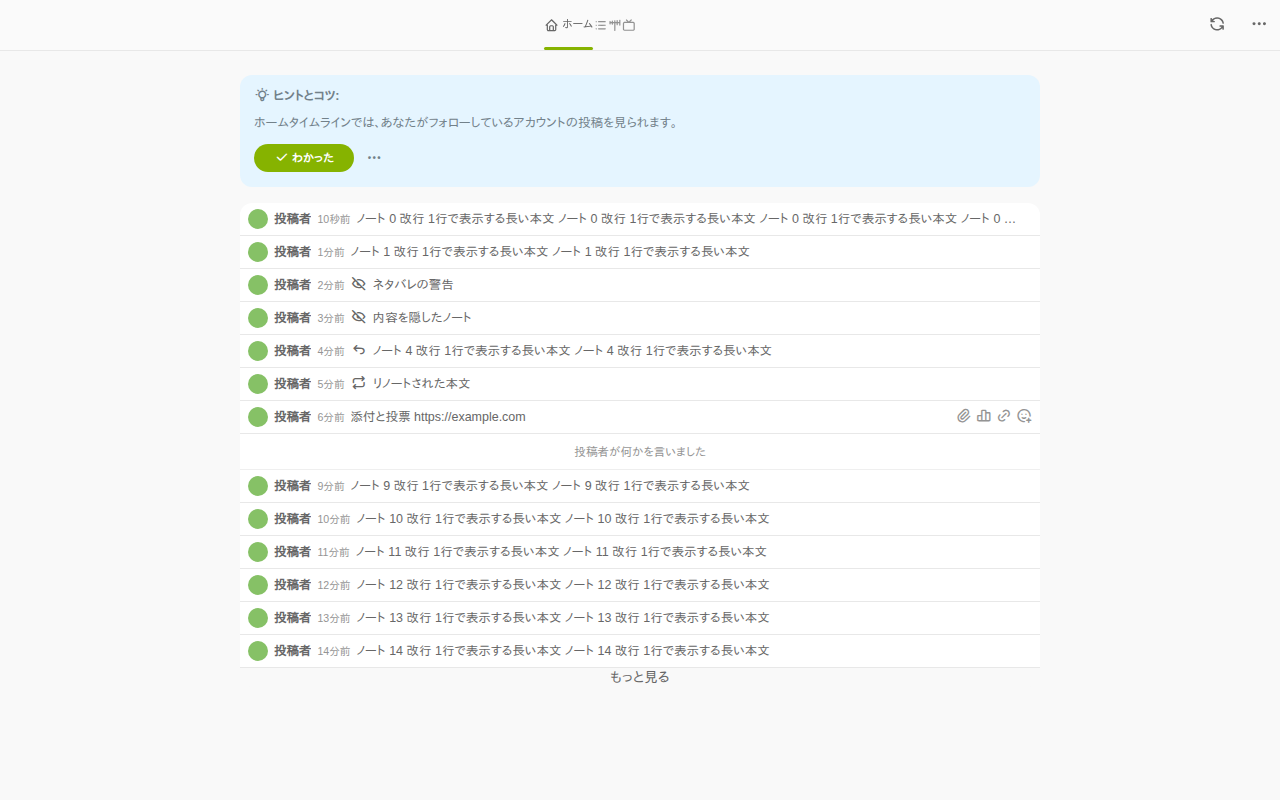
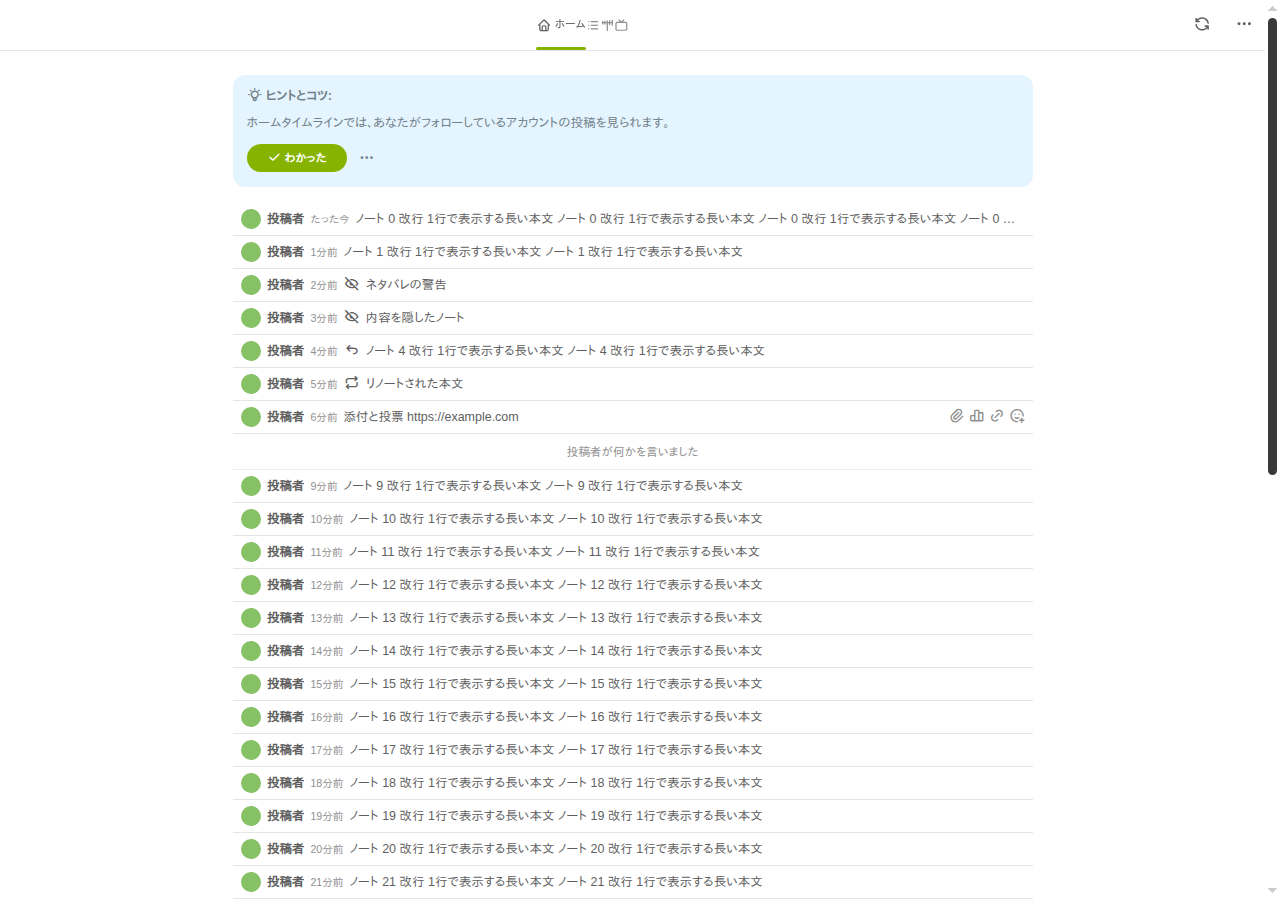
feat(frontend): 1行タイムラインの設定とスクロールバーを追加

diff --git a/packages/frontend/src/pages/settings/preferences.vue b/packages/frontend/src/pages/settings/preferences.vue
@@ -150,6 +150,14 @@ SPDX-License-Identifier: AGPL-3.0-only
 
 					<div class="_gaps_m">
 						<div class="_gaps_s">
+							<SearchMarker :keywords="['timeline', 'compact', 'single', 'line']">
+								<MkPreferenceContainer k="compactTimeline">
+									<MkSwitch v-model="compactTimeline">
+										<template #label><SearchLabel>{{ i18n.ts._compactTimeline.enable }}</SearchLabel></template>
+									</MkSwitch>
+								</MkPreferenceContainer>
+							</SearchMarker>
+
 							<SearchMarker :keywords="['post', 'form', 'timeline']">
 								<MkPreferenceContainer k="showFixedPostForm">
 									<MkSwitch v-model="showFixedPostForm">
@@ -980,6 +988,7 @@ const overridedDeviceKind = prefer.model('overridedDeviceKind');
 const pollingInterval = prefer.model('pollingInterval');
 const showTitlebar = prefer.model('showTitlebar');
 const keepCw = prefer.model('keepCw');
+const compactTimeline = prefer.model('compactTimeline');
 const serverDisconnectedBehavior = prefer.model('serverDisconnectedBehavior');
 const hemisphere = prefer.model('hemisphere');
 const showVisibilityColor = prefer.model('showVisibilityColor');

diff --git a/packages/frontend/src/pages/timeline.vue b/packages/frontend/src/pages/timeline.vue
@@ -4,7 +4,7 @@ SPDX-License-Identifier: AGPL-3.0-only
 -->
 
 <template>
-<PageWithHeader v-model:tab="src" :actions="headerActions" :tabs="$i ? headerTabs : headerTabsWhenNotLogin" :swipable="true" :displayMyAvatar="true" :canOmitTitle="true">
+<PageWithHeader v-model:tab="src" :class="{ [$style.compact]: compactTimeline }" :actions="headerActions" :tabs="$i ? headerTabs : headerTabsWhenNotLogin" :swipable="true" :displayMyAvatar="true" :canOmitTitle="true">
 	<div class="_spacer" style="--MI_SPACER-w: 800px;">
 		<MkTip v-if="isBasicTimeline(src)" :k="`tl.${src}`" style="margin-bottom: var(--MI-margin);">
 			{{ i18n.ts._timelineDescription[src] }}
@@ -364,6 +364,12 @@ definePage(() => ({
 </script>
 
 <style lang="scss" module>
+.compact {
+	scrollbar-width: auto;
+	scrollbar-gutter: stable;
+	scrollbar-color: var(--MI_THEME-scrollbarHandle) var(--MI_THEME-panel);
+}
+
 .new {
 	position: sticky;
 	top: calc(var(--MI-stickyTop, 0px) + 16px);
